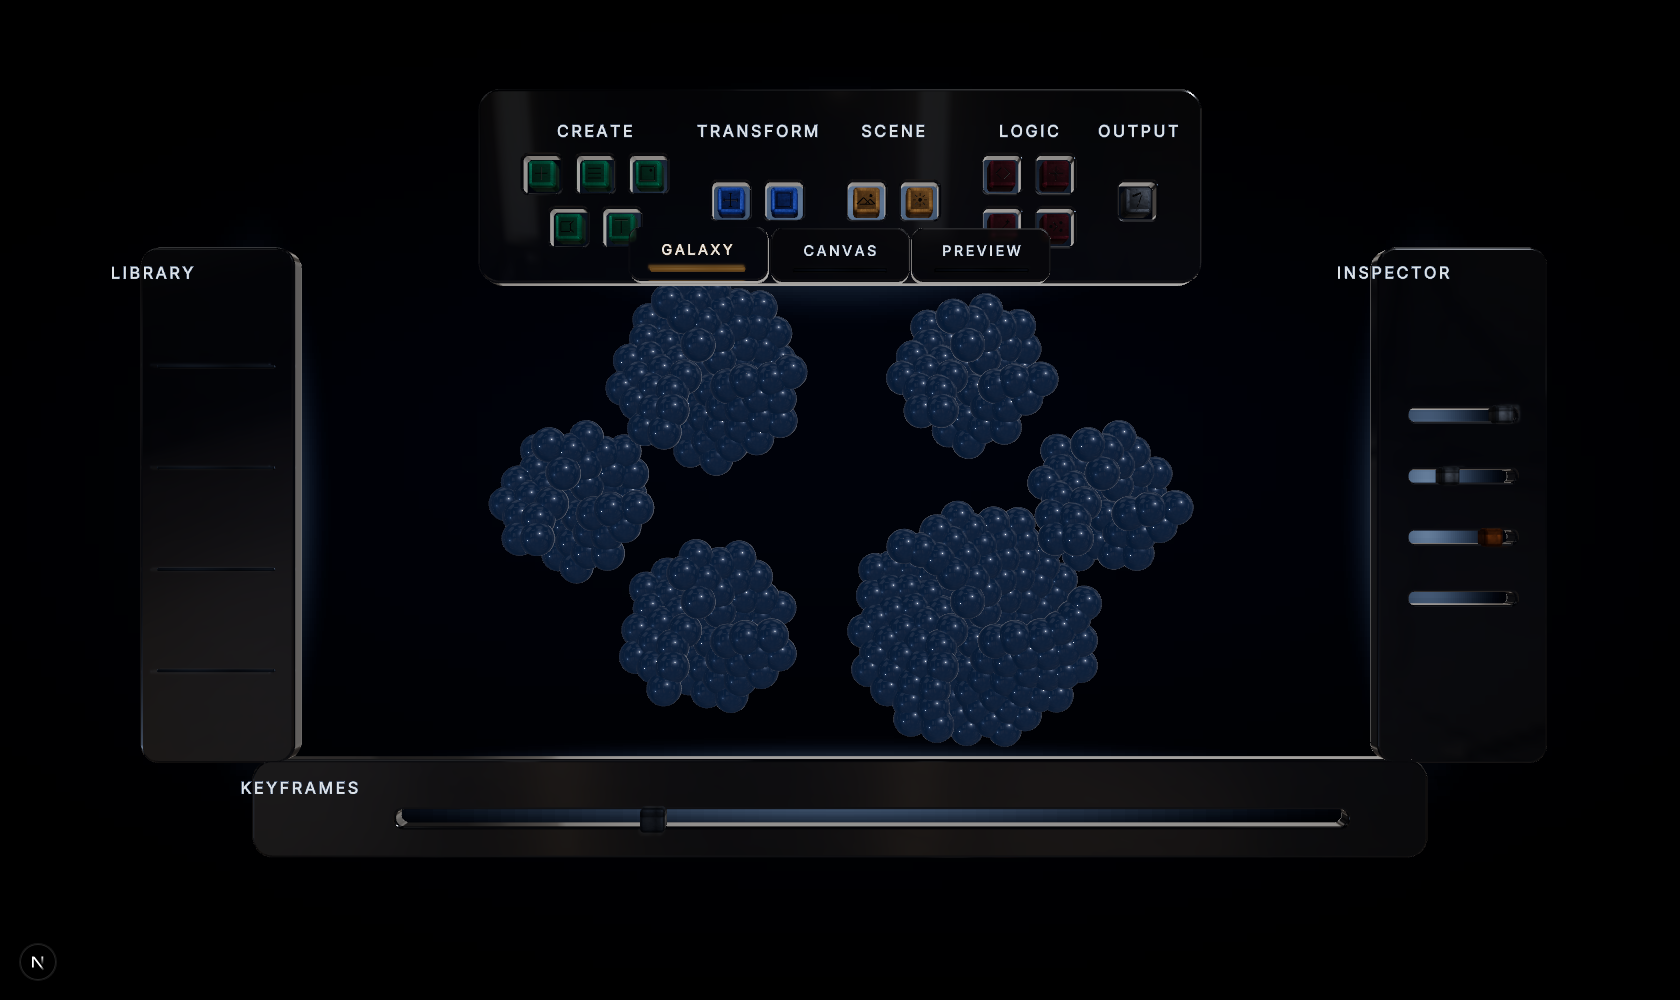
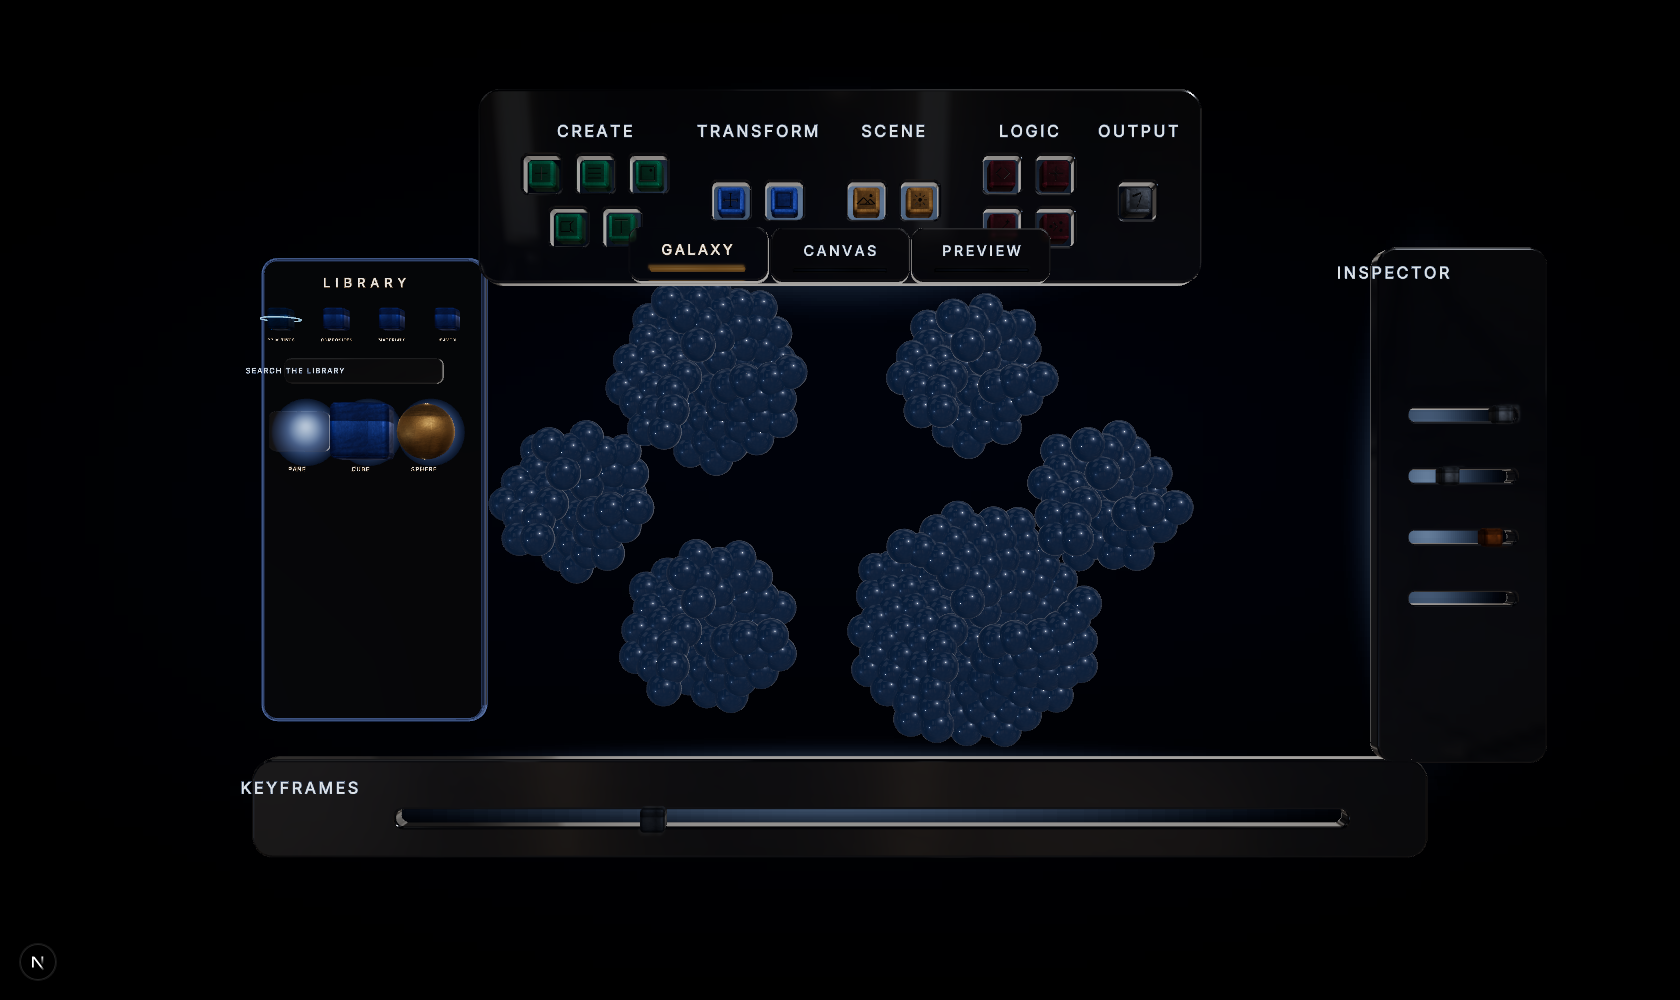
AUTO-CKPT: EDIT-I2 w-library — the REAL /library palette is DOCKED into the editor left zone and DRAG-INSTANTIATES into the LIVE app graph. LITERALLY LibraryPalette + DragGhost (P-6 browse/search/live-preview shelf), fitted (group scale 0.7) into the left margin, scene-globals (StudioEnv/Backdrop/li

Changed region(s): [[0.0619, 0.248, 0.3095, 0.775], [0.0619, 0.248, 0.1238, 0.279]]

diff --git a/kid-kode-landing/src/components/editor-shell/EditorLibraryDock.tsx b/kid-kode-landing/src/components/editor-shell/EditorLibraryDock.tsx
@@ -1,0 +1,106 @@
+'use client';
+
+// PRISM EDITOR INTEGRATION — I-2: the REAL library palette, DOCKED.
+//
+// The committed /library palette (the P-6 browse + search + LIVE-preview shelf)
+// mounted into the editor's left dock zone — LITERALLY LibraryPalette + DragGhost.
+// It matches the approved glass look by construction (it IS that palette). Two
+// editor adaptations (both additive, lab untouched):
+//   • the palette is wrapped in a fitted group so it sits in the left margin (the
+//     lab route gives it the whole left half);
+//   • the drag-to-canvas DROP is redirected — via DragGhost's onCanvasDrop — into
+//     the REAL app graph (editor-library-actions), so a dragged primitive /
+//     material / fluid / composite becomes a genuine node in galaxy + canvas
+//     (INV-0.3), not a library-local instance.
+//
+// The library scene-globals (StudioEnv / Backdrop / lights / NodeLayer / Inspector)
+// are deliberately NOT mounted — the editor scene supplies its own env + lights,
+// and the dropped nodes realize through EditorGraphViewport.
+//
+// Editor CHROME (not a graph node) — the palette is NOT tagged prismEditorNode, so
+// the node-authorship gate ignores it; only the dropped graph nodes are counted.
+
+import { useEffect } from 'react';
+import * as THREE from 'three';
+import { useThree } from '@react-three/fiber';
+import { LibraryPalette } from '@/components/editor/library/LibraryPalette';
+import { DragGhost } from '@/components/editor/library/DragGhost';
+import { useLibraryStore } from '@/components/editor/library/use-library-store';
+import type { LibraryEntry } from '@/components/editor/library/library-catalog';
+import { useMaterialMapSets } from '@/components/editor/material/material-build';
+import { instantiateLibraryEntryIntoGraph } from './editor-library-actions';
+
+// Fit the palette (≈6 × 12.6u) into the left margin, clear of the centered
+// viewport content and between the toolbar (top) and keyframes (bottom) docks.
+const PALETTE_POS: [number, number, number] = [-9.0, 0.2, 0.8];
+const PALETTE_SCALE = 0.7;
+
+// Window-keystroke capture for the in-canvas search bar (zero DOM input — the
+// MaterialPromptPanel idiom, same listener the lab scene uses; reads the shared
+// library store so the docked LibrarySearchBar's focus drives it).
+function LibrarySearchKeys() {
+  useEffect(() => {
+    const onKey = (e: KeyboardEvent) => {
+      const st = useLibraryStore.getState();
+      if (!st.searchFocused) return;
+      if (e.key === 'Escape' || e.key === 'Enter') { st.focusSearch(false); e.preventDefault(); return; }
+      if (e.key === 'Backspace') { st.backspaceSearch(); e.preventDefault(); return; }
+      if (e.key.length === 1 && /[\w \-.]/.test(e.key)) { st.typeSearch(e.key); e.preventDefault(); }
+    };
+    window.addEventListener('keydown', onKey);
+    return () => window.removeEventListener('keydown', onKey);
+  }, []);
+  return null;
+}
+
+/** Headless-verification probes (editor chrome — window exemption). Resolve tile
+ *  world centers for a trusted-pointer drag, expose the library browse store, and
+ *  a deterministic drop-into-graph helper. */
+function LibraryDockProbe() {
+  const scene = useThree((s) => s.scene);
+  if (typeof window !== 'undefined') {
+    const w = window as unknown as Record<string, unknown>;
+    w.__PRISM_EDITOR_LIBRARY_STORE__ = () => useLibraryStore.getState();
+    w.__PRISM_EDITOR_LIBRARY_TILES__ = () => {
+      const out: { entryId: string; world: [number, number, number] }[] = [];
+      const v = new THREE.Vector3();
+      scene.traverse((o) => {
+        if (o.userData?.prismLibTile) {
+          o.getWorldPosition(v);
+          out.push({ entryId: o.userData.prismLibTile as string, world: [v.x, v.y, v.z] });
+        }
+      });
+      return out;
+    };
+    w.__PRISM_EDITOR_LIBRARY_DROP__ = (entryId: string) => {
+      const entry = useLibraryStore.getState().catalog().find((e) => e.id === entryId);
+      if (!entry) return [];
+      return instantiateLibraryEntryIntoGraph(entry);
+    };
+  }
+  return null;
+}
+
+const onCanvasDrop = (entry: LibraryEntry) => {
+  instantiateLibraryEntryIntoGraph(entry);
+};
+
+export function EditorLibraryDock() {
+  const matSets = useMaterialMapSets();
+  const hubs = useLibraryStore((s) => s.hubs);
+  return (
+    <group>
+      {/* the REAL palette, fitted into the left dock margin */}
+      <group position={PALETTE_POS} scale={PALETTE_SCALE}>
+        <LibraryPalette position={[0, 0, 0]} matSets={matSets} hubs={hubs} />
+      </group>
+
+      {/* the drag-ghost runs at world scale (it tracks the pointer in world space);
+          a valid drop routes into the REAL app graph. */}
+      <DragGhost matSets={matSets} hubs={hubs} onCanvasDrop={onCanvasDrop} />
+
+      <LibrarySearchKeys />
+      <LibraryDockProbe />
+    </group>
+  );
+}

diff --git a/kid-kode-landing/src/components/editor-shell/editor-library-actions.ts b/kid-kode-landing/src/components/editor-shell/editor-library-actions.ts
@@ -1,0 +1,55 @@
+'use client';
+
+// PRISM EDITOR INTEGRATION — I-2: the docked LIBRARY's drop → REAL graph bridge.
+//
+// In the lab, dropping a palette tile instantiates into the library-local store.
+// Docked into the editor, the drop routes HERE: the entry's EntrySpec is projected
+// to real PrismNode(s) via the SAME pure factories the lab uses (entryToGraphNodes
+// = buildInstance → instanceNodes), re-parented to the active hub, and pushed into
+// the LIVE app graph (useGraphSourceStore.addNodesBatch). The dragged primitive /
+// material / fluid / composite becomes a genuine node that appears in galaxy +
+// canvas (INV-0.3) — not a library-local instance.
+
+import { useGraphSourceStore } from '@/stores/useGraphSourceStore';
+import { entryToGraphNodes } from '@/components/editor/library/use-library-store';
+import type { LibraryEntry } from '@/components/editor/library/library-catalog';
+import type { PrismNode } from '@/lib/prism-graph/types';
+import { resolveActiveHubId, useEditorShellStore } from './use-editor-shell-store';
+
+// Non-stacking drop slots in the active hub's local scene band (FitGroup re-fits
+// the whole hub, so absolute world drop coords are moot — these keep successive
+// drops from landing on top of each other).
+const DROP_SPREAD: { x: number; y: number }[] = [
+  { x: 0, y: -0.8 },
+  { x: 1.1, y: -0.3 },
+  { x: -1.1, y: -0.3 },
+  { x: 0.6, y: 0.6 },
+  { x: -0.6, y: 0.6 },
+  { x: 0, y: 0.2 },
+];
+let dropCount = 0;
+
+/** Instantiate a library catalog entry into the LIVE app graph under the active
+ *  hub. Returns the new node id(s) (a primitive/fluid → 1, a composite → N). */
+export function instantiateLibraryEntryIntoGraph(entry: LibraryEntry): string[] {
+  const hub = resolveActiveHubId();
+  if (!hub) return [];
+  const slot = DROP_SPREAD[dropCount % DROP_SPREAD.length];
+  dropCount += 1;
+
+  const nodes = entryToGraphNodes(entry, { x: slot.x, y: slot.y, z: 0.2 });
+  if (nodes.length === 0) return [];
+
+  const inputs = nodes.map((n) => {
+    const input: Partial<PrismNode> & { parentHubId: string } = { ...n, parentHubId: hub };
+    // let the graph store mint a fresh uuid so repeated drops never collide.
+    delete (input as Partial<PrismNode>).nodeId;
+    return input;
+  });
+
+  const ids = useGraphSourceStore.getState().addNodesBatch(inputs);
+  const shell = useEditorShellStore.getState();
+  if (ids[0]) shell.select(ids[0]);
+  if (shell.view === 'preview-app') shell.setView('canvas');
+  return ids;
+}

diff --git a/kid-kode-landing/src/components/editor/library/DragGhost.tsx b/kid-kode-landing/src/components/editor/library/DragGhost.tsx
@@ -16,19 +16,35 @@ import type { LabHub } from '@/components/editor/composite/composite-schema';
 import { CompositeText } from '@/components/editor/composite/CompositeText';
 import { PreviewContent } from './LibraryTile';
 import { useLibraryStore } from './use-library-store';
+import type { LibraryEntry } from './library-catalog';
 
 const PLANE = new THREE.Plane(new THREE.Vector3(0, 0, 1), 0); // z = 0 drop plane
 const CANVAS_MIN_X = -5.0; // right of the palette shelf → the canvas zone
 const TAP_EPS = 0.6; // travel under this = a tap (tile quick-add), not a drag
 const RING_MAT = new THREE.MeshBasicMaterial({ color: '#9fe9ff', toneMapped: false, transparent: true, opacity: 0.8 });
 
-export function DragGhost({ matSets, hubs }: { matSets: Record<string, WornMaps>; hubs: LabHub[] }) {
+export function DragGhost({
+  matSets,
+  hubs,
+  onCanvasDrop,
+}: {
+  matSets: Record<string, WornMaps>;
+  hubs: LabHub[];
+  /** ADDITIVE (editor-integration I-2): when provided, a valid drop on the
+   *  canvas routes the entry HERE (the editor adds it to the REAL app graph)
+   *  instead of the library-local store.instantiate. The lab passes nothing, so
+   *  its in-canvas instantiate behavior is unchanged. */
+  onCanvasDrop?: (entry: LibraryEntry, world: { x: number; y: number }) => void;
+}) {
   const wornMaps = useWornMaps();
   const dragEntryId = useLibraryStore((s) => s.dragEntryId);
   const ghostRef = useRef<THREE.Group>(null);
   const ringRef = useRef<THREE.Mesh>(null);
   const world = useRef(new THREE.Vector3());
   const { camera, pointer, raycaster, controls } = useThree();
+  // keep the latest drop handler reachable from the once-bound pointerup effect.
+  const dropRef = useRef(onCanvasDrop);
+  dropRef.current = onCanvasDrop;
 
   const entry = useMemo(() => {
     if (!dragEntryId) return null;
@@ -54,7 +70,13 @@ export function DragGhost({ matSets, hubs }: { matSets: Record<string, WornMaps>
       const w = world.current;
       const moved = start ? Math.hypot(w.x - start.x, w.y - start.y) : 999;
       if (ent && moved > TAP_EPS && w.x > CANVAS_MIN_X) {
-        st.instantiate(ent, { x: w.x, y: w.y });
+        if (dropRef.current) {
+          // editor: instantiate into the REAL app graph, then clear the drag.
+          dropRef.current(ent, { x: w.x, y: w.y });
+          st.endDrag();
+        } else {
+          st.instantiate(ent, { x: w.x, y: w.y });
+        }
       } else {
         st.endDrag();
       }

diff --git a/kid-kode-landing/src/components/editor-shell/EditorDock.tsx b/kid-kode-landing/src/components/editor-shell/EditorDock.tsx
@@ -72,25 +72,6 @@ function WornNub({
   return <mesh geometry={geo} material={mat} position={position} />;
 }
 
-/** A thin worn-metal bar (shelf divider / channel rail). */
-function WornBar({ maps, position, width, height = 0.06 }: { maps: WornMaps | undefined; position: [number, number, number]; width: number; height?: number }) {
-  const geo = useMemo(
-    () => buildCubeGeometry({ ...PARAM_BASE, width, height, depth: 0.12, cornerRadius: 0.03, cutouts: [] }),
-    [width, height],
-  );
-  const mat = useMemo(() => {
-    const m = new THREE.MeshPhysicalMaterial();
-    if (maps) applyWornMaterial(m, maps);
-    m.roughness = 1;
-    m.clearcoat = 0.08;
-    m.envMapIntensity = 0.9;
-    m.color = new THREE.Color('#b8c4d2');
-    return m;
-  }, [maps]);
-  useEffect(() => () => { geo.dispose(); mat.dispose(); }, [geo, mat]);
-  return <mesh geometry={geo} material={mat} position={position} />;
-}
-
 /** One dock: a glass pane (optionally milled) + an engraved label + accents. */
 function Dock({
   position,
@@ -152,21 +133,11 @@ export function EditorDocks() {
   // KEYFRAMES (bottom) — one long milled timeline channel.
   const keyframeParams = useMemo(() => pane(22, 1.75, [cut(0.6, -0.18, 18, 0.42, 0.2)], 0.34), []);
 
-  // LIBRARY (left) — clean glass shelf.
-  const libraryParams = useMemo(() => pane(2.8, 9.6, [], 0.3), []);
-
   return (
     <group>
-      {/* TOOLBAR zone — the REAL chassis toolbar is docked here by
-          EditorToolbarDock (I-2). LIBRARY zone is filled by EditorLibraryDock. */}
-
-      {/* LIBRARY dock */}
-      <Dock position={[-11.7, -0.1, Z]} params={libraryParams} label="LIBRARY" labelPos={[-1.15, 4.35, 0.32]} labelSize={0.3}>
-        <WornBar maps={gun} position={[0, 2.6, 0.22]} width={2.2} />
-        <WornBar maps={gun} position={[0, 0.7, 0.22]} width={2.2} />
-        <WornBar maps={gun} position={[0, -1.2, 0.22]} width={2.2} />
-        <WornBar maps={gun} position={[0, -3.1, 0.22]} width={2.2} />
-      </Dock>
+      {/* TOOLBAR zone — the REAL chassis toolbar is docked by EditorToolbarDock,
+          and the LIBRARY zone by EditorLibraryDock (both I-2). The INSPECTOR +
+          KEYFRAMES zones remain glass placeholders until I-3. */}
 
       {/* INSPECTOR dock */}
       <Dock position={[11.7, -0.1, Z]} params={inspectorParams} label="INSPECTOR" labelPos={[-1.35, 4.35, 0.32]} labelSize={0.3}>

diff --git a/kid-kode-landing/src/components/editor/library/use-library-store.ts b/kid-kode-landing/src/components/editor/library/use-library-store.ts
@@ -364,3 +364,16 @@ export const useLibraryStore = create<LibraryStore>((set, get) => ({
 }));
 
 export { instanceRoot, instanceNodes };
+
+/** ADDITIVE (editor-integration I-2): project a catalog entry to its backing
+ *  PrismNode(s) at `pos`, WITHOUT mutating the library store. The editor docks
+ *  this palette and redirects the drop sink into the REAL app graph
+ *  (useGraphSourceStore) — this reuses the exact same pure factories the lab
+ *  uses (buildInstance → instanceNodes), so a dragged tile yields the identical
+ *  primitive / fluid / composite node(s) the lab would. The lab itself is
+ *  unaffected (this is a fresh export, no behavior change). */
+export function entryToGraphNodes(entry: LibraryEntry, pos: { x: number; y: number; z?: number }): PrismNode[] {
+  const inst = buildInstance(entry.spec, LIBRARY_HUBS, useLibraryStore.getState().savedTemplates, pos);
+  if (!inst) return [];
+  return instanceNodes(inst, LIBRARY_HUBS);
+}

diff --git a/kid-kode-landing/src/components/editor-shell/EditorShellScene.tsx b/kid-kode-landing/src/components/editor-shell/EditorShellScene.tsx
@@ -22,6 +22,7 @@ import { CompositeText } from '@/components/editor/composite/CompositeText';
 import { EditorGraphViewport } from './EditorGraphViewport';
 import { EditorDocks } from './EditorDock';
 import { EditorToolbarDock } from './EditorToolbarDock';
+import { EditorLibraryDock } from './EditorLibraryDock';
 import { EditorModeSwitch } from './EditorModeSwitch';
 import { makeDockGlass, dockPaneParams } from './editor-shell-glass';
 import {
@@ -251,6 +252,7 @@ export function EditorShellScene() {
       {view === 'preview-app' && <PreviewPlaceholder />}
       <EditorDocks />
       <EditorToolbarDock />
+      <EditorLibraryDock />
       <EditorModeSwitch />
       <EditorProbe />
       <EditorReviewRig />

diff --git a/kid-kode-landing/notes/prism-editor-progress.md b/kid-kode-landing/notes/prism-editor-progress.md
@@ -94,3 +94,4 @@ Rich detail (snapshots, state.json, verify.log) lives in
 - PRIM-P4 w-verify (ULTRACODE) - Extended scripts/node-authorship-gate.mjs with a --composite mode (mainComposite) that drives /composite-lab and proves the §4/§0 Node Law on the running app: probe+self-test live, instantiate creates a whole SUBGRAPH (>1 node + edges) in one action, tabs auto-populate one-per-hub, auto-add ON adds / OFF freezes, canvas+galaxy zero-orphan — 10/10 PASS. Wrote notes/verify-prim-p4.mjs (consolidated headless behavioral pass → behavioral-metrics.json + canonical frames): auto-populate 5/5, auto-add ON 5→6 / OFF frozen / re-ON 6→7, rename/hide/auto-add via REAL trusted-pointer clicks on the dogfooded Inspector, dropdown phase→1.0 with 123,374 px liquid flow, two-state 32/32 (0 orphans), 0 errors. THREE fresh-context judges in a parallel ULTRACODE workflow ALL PASS: user-advocate (blocking, net PLEASED, 0 MUST-FIX), aesthetic-match (no F-4), spec-conformance (§4 + §0, classifier self-test confirms a live gate not a tautology). The judges' one shared non-blocking flag (a tab/Menu overlap) was a STALE pre-fix evidence frame; re-captured with the width-adaptive navLayout → min tab gap 1.30 > tabW 1.16 (no overlap). Hard gates: node-authorship --composite 10/10, no-dom-ui PASS (19 files), tsc 9=baseline/0-new, 0 console errors. Report → notes/PRIM-P4-REPORT.md. PRISM-PRIM-P4: RUN COMPLETE.
 - PRIM-P5 3D COMPOSITION (ULTRACODE) - Extended /composite-lab into a full assembly workspace (spec §6), ZERO DOM, matched to the founder glass/worn-alloy idiom. STACK (§6.1): effectiveRoot composes a composite's world root up its parentCompositeId chain (+ per-zLayer push) so a stacked child MOVES WITH its parent; in-engine MOVE gizmo (worn-cube drag handle, raycast-plane) + STACK/UNSTACK/Z± inspector chips + grid + alignment/face/edge/center SNAP with bright in-engine guide lines (alignment beats grid). CONNECT (§6.2): pick a member node, pick a second -> a real data/logic graph edge (store.edges()) realized as a PREMIUM 3D connector (transmission-glass tube arcing through +z, flowing emissive core, worn end-nodes, cyan=data/amber=logic) routed between LIVE node world positions (follows moves/stacks); connect-pick rubber-band + armed-node pulse. GROUP+SAVE-AS-TEMPLATE (§6.4): multi-select (in-engine frame brackets) -> GROUP -> SAVE deep-captures members+binding+stack-parent-by-index+connections relative to centroid -> palette chip -> re-instantiate recreates the assembly as a FRESH registered SUBGRAPH (new ids, stack relinked, connections re-mapped; INV-0.4). New: composition.ts (effectiveRoot/computeSnap/nearestStackTarget pure fns), CompositionOverlay.tsx (GridFloor/SnapGuides/StackTies/GroupFrames/MoveGizmo), ConnectorLayer.tsx (ConnectorLayer/ConnectPicker); pane/cube single-primitive atoms; memberToNode takes a worldRoot so stacked members world-root correctly. VERIFY: node-authorship-gate --composite 10/10 (51 rendered all node-backed, 0 orphans canvas+galaxy, self-test live); behavioral 5/5 via trusted-pointer where robust (stack movedTogether=true via STACK chip; snap gizmo-drag + alignment guide snappedToCard x=-4.90; group+save via inspector chips; connect+re-instantiate render verified, 2nd-pick/palette-chip store-fallback noted) + 0 console errors; no-dom-ui PASS (22 files); tsc 9=baseline/0-new. THREE fresh-context judges in a parallel ULTRACODE workflow ALL PASS / 0 MUST-FIX: user-advocate (blocking, "a non-technical first-timer would be PLEASED"), aesthetic (connectors decisively clear the flat-line risk, no F-2/F-4), spec-conformance (§6/§0/§10, Node Law holds, ZERO DOM). Commits c58fb621 (w-stack) -> cc4cc487 (w-connect) -> b4661829 (w-save) -> w-verify. Frames -> notes/verification/prim-p5/. Report -> notes/PRIM-P5-REPORT.md. PRISM-PRIM-P5: RUN COMPLETE.
 - EDIT-I2 w-toolbar — docked the REAL /toolbar-chassis toolbar into the editor top zone (GlassPane + 14 worn-alloy CubeButtons + FaceGlyph hover-spin, MSDF section labels not Troika since the canvas is WebGPU). Every fn wired to a REAL op on the live graph/scene via editor-toolbar-actions: CREATE add/object3d/text/image → addNode appears in galaxy+canvas (INV-0.3); library→focus palette search; transform→move selection; selection→cycle; SCENE background/lighting→cycle observable presets; changeArtifact→cycle primitive form; build→preview+save. CubeButton gained an additive onClick (lab untouched). HEADLESS: 11/11 (add 327→328, trusted real-cube click 328→329, galaxy 329 seeded 0-orphans, scene cycles, build→preview, 0 console errors). Gates: no-dom-ui PASS, node-authorship --editor 7/7, tsc 0-new.
+- EDIT-I2 w-library — docked the REAL /library palette (P-6 browse+search+live-preview shelf) into the editor left zone, fitted (group scale 0.7) and clear of the viewport. DRAG-to-instantiate redirected into the REAL app graph: DragGhost gained an additive onCanvasDrop prop (lab untouched); the editor passes it instantiateLibraryEntryIntoGraph → entryToGraphNodes (the same pure factories buildInstance→instanceNodes, additive export) → re-parented to active hub → addNodesBatch. A dragged primitive/material/composite becomes a genuine node in galaxy+canvas (INV-0.3). In-canvas search wired (window-keystroke listener + LibrarySearchBar focus). HEADLESS 9/9: 3 tiles, drop cube 327→328 + realizes 0-orphans, composite nav-header +9 nodes, material gold +1, TRUSTED real pointer-drag tile→center 338→339, search 'cube' 3→1 tiles, galaxy 339 seeded 0-orphans, 0 console errors. Gates: no-dom-ui PASS, node-authorship --editor 7/7, tsc 0-new.

diff --git a/kid-kode-landing/notes/SENTINEL-LIVE.md b/kid-kode-landing/notes/SENTINEL-LIVE.md
@@ -249,3 +249,7 @@ complete marker: 'PRISM-EDIT-I2: RUN COMPLETE'
 [11:10:44] EDIT-I2 · 18m · agent=1 · still building · 18m elapsed · agent up · 1001 commits · last: AUTO-CKPT: EDIT-I1 w-verify — HEADLESS behavioral verification + 3 fresh
 [11:14:14] EDIT-I2 · 21m · agent=1 · still building · 21m elapsed · agent up · 1001 commits · last: AUTO-CKPT: EDIT-I1 w-verify — HEADLESS behavioral verification + 3 fresh
 [11:17:45] EDIT-I2 · 25m · agent=1 · still building · 25m elapsed · agent up · 1001 commits · last: AUTO-CKPT: EDIT-I1 w-verify — HEADLESS behavioral verification + 3 fresh
+[11:20:45] EDIT-I2 · 28m · agent=1 · commit d6c1bba6 — AUTO-CKPT: EDIT-I2 w-toolbar — the REAL /toolbar-chassis toolbar is DOCK
+[11:21:15] EDIT-I2 · 28m · agent=1 · still building · 28m elapsed · agent up · 1002 commits · last: AUTO-CKPT: EDIT-I2 w-toolbar — the REAL /toolbar-chassis toolbar is DOCK
+[11:24:46] EDIT-I2 · 32m · agent=1 · still building · 32m elapsed · agent up · 1002 commits · last: AUTO-CKPT: EDIT-I2 w-toolbar — the REAL /toolbar-chassis toolbar is DOCK
+[11:28:17] EDIT-I2 · 35m · agent=1 · still building · 35m elapsed · agent up · 1002 commits · last: AUTO-CKPT: EDIT-I2 w-toolbar — the REAL /toolbar-chassis toolbar is DOCK

diff --git a/kid-kode-landing/notes/MONITOR-FEED.md b/kid-kode-landing/notes/MONITOR-FEED.md
@@ -599,3 +599,7 @@ Toolbar fully REBUILT from GENERATED Tripo v3.1 GLBs (procedural forms discarded
 [11:10:44] CHAIN/EDIT-I2: still building · 18m elapsed · agent up · 1001 commits · last: AUTO-CKPT: EDIT-I1 w-verify — HEADLESS behavioral verification + 3 fresh
 [11:14:14] CHAIN/EDIT-I2: still building · 21m elapsed · agent up · 1001 commits · last: AUTO-CKPT: EDIT-I1 w-verify — HEADLESS behavioral verification + 3 fresh
 [11:17:45] CHAIN/EDIT-I2: still building · 25m elapsed · agent up · 1001 commits · last: AUTO-CKPT: EDIT-I1 w-verify — HEADLESS behavioral verification + 3 fresh
+[11:20:45] CHAIN/EDIT-I2: commit d6c1bba6 — AUTO-CKPT: EDIT-I2 w-toolbar — the REAL /toolbar-chassis toolbar is DOCK
+[11:21:15] CHAIN/EDIT-I2: still building · 28m elapsed · agent up · 1002 commits · last: AUTO-CKPT: EDIT-I2 w-toolbar — the REAL /toolbar-chassis toolbar is DOCK
+[11:24:46] CHAIN/EDIT-I2: still building · 32m elapsed · agent up · 1002 commits · last: AUTO-CKPT: EDIT-I2 w-toolbar — the REAL /toolbar-chassis toolbar is DOCK
+[11:28:17] CHAIN/EDIT-I2: still building · 35m elapsed · agent up · 1002 commits · last: AUTO-CKPT: EDIT-I2 w-toolbar — the REAL /toolbar-chassis toolbar is DOCK
